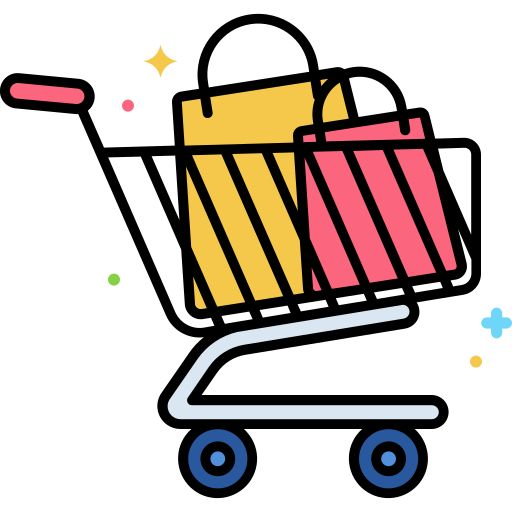
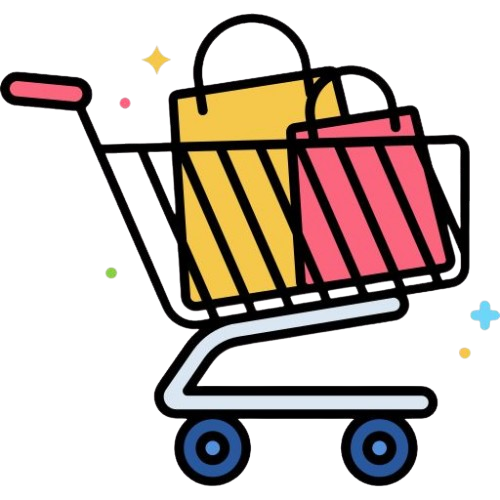
handle mobile viewing experience, fix content on homepage

diff --git a/assets/css/home_page_style.css b/assets/css/home_page_style.css
@@ -1,10 +1,15 @@
 html {
     scroll-behavior: smooth; /* Enable smooth scrolling */
+    overflow-x: hidden;      /* clip the off-screen #menu so it can't scroll horizontally */
 }
 
 body {
     font-size:16.5px;
-    background: linear-gradient(to bottom, 
+    /* Prevent horizontal scroll on small screens: the template's off-canvas
+       #menu sits off-screen to the right and leaks a few px of scroll width.
+       #menu is position:fixed, so this doesn't clip it when it slides in. */
+    overflow-x: hidden;
+    background: linear-gradient(to bottom,
         rgb(255, 255, 255),
         rgb(249, 239, 229), /* Light Pink */
         rgb(229, 219, 199), /* Medium Pink */
@@ -95,10 +100,20 @@ body {
     color: rgb(46, 46, 46); 
     margin: auto;
 }
-/* Media query for smaller screens */
+/* Media query for smaller screens: stack every note/column full-width so they
+   aren't cramped side by side (and so the page stops scrolling horizontally). */
 @media (max-width: 768px) {
-    .col {
-        flex: 100%; /* Makes each box take up the full width */
+    .row {
+        flex-wrap: wrap;
+    }
+    /* [class*="col-"] catches col-lg/col-md/etc.; .col is the bare variant.
+       width:100% !important overrides inline widths like the co-op note's 60%. */
+    .row > [class*="col-"],
+    .row > .col {
+        flex: 1 1 100%;
+        max-width: 100%;
+        width: 100% !important;
+        margin-bottom: 1.5rem;
     }
 }
 
@@ -227,6 +242,70 @@ body {
     }
     .exp-triangle-row > .exp-note {
         flex: 1 1 100%;
+    }
+}
+
+/* <------------------------PROJECT TILES: 2-up on phones---------------------------> */
+/* homepage_script.js renders each tile at a fixed 225px (inline width/height),
+   so on a narrow phone only one fits per row. Below 480px, force two per row and
+   keep them square with aspect-ratio. !important is needed to beat the inline px. */
+@media (max-width: 480px) {
+    .tiles {
+        gap: 1rem !important;
+        justify-content: center;
+    }
+    .tiles article {
+        width: calc(50% - 0.5rem) !important;
+        height: auto !important;
+        aspect-ratio: 1 / 1;
+        margin: 0 !important;
+    }
+    .tiles article > .image {
+        width: 100% !important;
+        height: 100% !important;
+    }
+}
+
+/* The Phantom template forces the tile title/description overlay to stay visible
+   on touch devices (body.is-touch, added by main.js) since touch can't hover.
+   Keep it hidden instead so the tiles stay clean — the project icons already
+   show their names. This loads after main.css, so it overrides that rule. */
+body.is-touch .tiles article .content {
+    max-height: 0;
+    opacity: 0;
+}
+
+/* <------------------------HEADER LOGO: icon stacked over one-line name---------------------------> */
+/* On phones, put the icon on its own line and the name on a single line beneath
+   it. The name gets a larger, fluid font (bigger than the shared-line version)
+   since it now has the full width; nowrap + tightened spacing keep it one line
+   from small (~320px) up to large phones. */
+@media (max-width: 480px) {
+    #header .logo {
+        display: flex;
+        flex-direction: column;
+        align-items: flex-start;
+        letter-spacing: 0.12em;
+    }
+    #header .logo .symbol {
+        margin: 0 0 0.35em 0;   /* space below the icon (template had margin-right) */
+    }
+    #header .logo .title {
+        white-space: nowrap;
+        font-size: clamp(14px, 4.6vw, 20px);
+    }
+}
+
+/* <------------------------RESUME BUTTON: fit on small phones---------------------------> */
+/* The download button overflows very narrow screens because of its wide 0.35em
+   letter-spacing and padding. Tighten both on phones so it stays within the
+   viewport (no horizontal scroll). */
+@media (max-width: 480px) {
+    #about-me .button {
+        letter-spacing: 0.1em;
+        padding-left: 1.25em;
+        padding-right: 1.25em;
+        max-width: 100%;
     }
 }
 

diff --git a/assets/js/i18n.js b/assets/js/i18n.js
@@ -49,9 +49,11 @@ const translations = {
         "section.experience": "EXPERIENCE",
 
         // --- About Me (command prompt) ---
-        "about.whoami1": "I have a passion for computer science because I love coding. While I initially enjoyed math and physics, I found them too dry to pursue professionally. My interest in coding began in high school when I was unsure about which course to study. As I explored coding further, my love for it grew. Eventually, I realized that being good at math actually complements computer science, and I finally discovered my career path.",
+        "about.whoami1": "It all started with a passion for computer science because I love coding. While I initially enjoyed math and physics, I found them too dry to pursue professionally. My interest in coding began in high school when I was unsure about which course to study. As I explored coding further, my love for it grew. Eventually, I realized that being good at math actually complements computer science, and I finally discovered my career path.",
         "about.whoami2": "My diligent efforts during university were rewarded when I secured an internship at BlackBerry QNX. During my time there, I gained invaluable insights into the realities of a professional environment, particularly in software development and engineering roles. Additionally, I had the opportunity to engage in various social aspects, including team meetings, discussions, and assuming responsibilities. The knowledge and experiences I acquired during this internship were beyond the scope of classroom learning.",
         "about.whoami3": "After the internship, I returned to complete my university studies at Carleton. Although the job search turned out to be more challenging than I anticipated, I made the decision to regroup and invest in my personal growth. After reassessing my situation, I recognized that my lack of experience was a significant factor. Consequently, I have concentrated on enhancing my professional skills by creating numerous small to medium-sized projects.",
+        "about.whoami4": "I traveled to Canada in June 2017 to study abroad. Started in Grade 11 at Glebe CI, Ottawa. I then went to Carleton University for 4.5 years of study. Lived and worked for another 2 years. February 2026, my journey here finally concluded, and I decided it was a good time to go home, in Vietnam.",
+        
         "about.reachEmail": "You can reach out to me at my working email address: ",
         "about.moreBottom": "More can be found at the <a class=\"cmd-log\" style=\"color: cyan\" href=\"#footer\">bottom</a> of this website ↓",
         "about.resumeBtn": "Download My Resume!",

diff --git a/index.html b/index.html
@@ -137,6 +137,8 @@
 										<p></p>
 										<p class="cmd-log" data-i18n="about.whoami3"></p>
 										<p></p>
+										<p class="cmd-log" data-i18n="about.whoami4"></p>
+										<p></p>
 										<p class="cmd-log"><span data-i18n="about.reachEmail"></span><a class="cmd-log" style="color: cyan" href="mailto:johnxnguyenwork@gmail.com">johnxnguyenwork@gmail.com</a></p>
 										<p class="cmd-log" data-i18n-html="about.moreBottom"></p>
 										<p style="margin: 0; height: 16px"></p>
